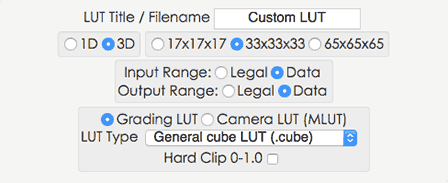
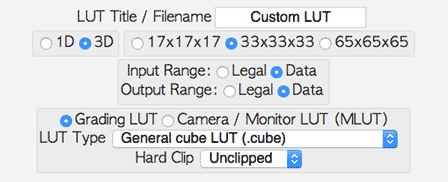
ACEScc bugfix and finer black and white clip controls.

diff --git a/testing/lutlutbox.js b/testing/lutlutbox.js
@@ -116,8 +116,14 @@ LUTLutBox.prototype.io = function() {
 	this.nikonHue.setAttribute('value',0);
 	this.inputs.addInput('nikonHue',this.nikonHue);
 	this.nikonHueLabel = document.createElement('label');
-	this.lutClipCheck = document.createElement('input');
-	this.inputs.addInput('clipCheck',this.lutClipCheck);
+//	this.lutClipCheck = document.createElement('input');
+//	this.inputs.addInput('clipCheck',this.lutClipCheck);
+	this.lutClipSelect = document.createElement('select');
+	this.inputs.addInput('clipSelect',this.lutClipSelect);
+	this.clipLegalBox = document.createElement('div');
+	this.lutClipLegalCheck = document.createElement('input');
+	this.inputs.addInput('clipLegalCheck',this.lutClipLegalCheck);
+	this.buildClipSelect();
 };
 LUTLutBox.prototype.ui = function() {
 	// LUT title / filename
@@ -257,10 +263,17 @@ LUTLutBox.prototype.ui = function() {
 	// 0-1.0 hard clip checkbox
 	this.lutClip = document.createElement('div');
 	this.lutClip.setAttribute('class','emptybox');
-	this.lutClip.appendChild(document.createElement('label').appendChild(document.createTextNode('Hard Clip 0-1.0')));
-	this.lutClipCheck.setAttribute('type','checkbox');
-	this.lutClipCheck.checked = false;
-	this.lutClip.appendChild(this.lutClipCheck);
+	this.lutClip.appendChild(document.createElement('label').appendChild(document.createTextNode('Hard Clip')));
+	this.lutClip.appendChild(this.lutClipSelect);
+	this.clipLegalBox.appendChild(document.createElement('label').appendChild(document.createTextNode('Legal')));
+	this.lutClipLegalCheck.setAttribute('type','checkbox');
+	this.lutClipLegalCheck.checked = false;
+	this.clipLegalBox.appendChild(this.lutClipLegalCheck);
+	this.clipLegalBox.style.display = 'none';
+	this.lutClip.appendChild(this.clipLegalBox);
+//	this.lutClipCheck.setAttribute('type','checkbox');
+//	this.lutClipCheck.checked = false;
+//	this.lutClip.appendChild(this.lutClipCheck);
 	this.lutUsage.appendChild(document.createElement('br'));
 	this.lutUsage.appendChild(this.lutClip);
 };
@@ -269,9 +282,16 @@ LUTLutBox.prototype.events = function() {
 		here.cleanName();
 		lutFile.filename();
 	};}(this);
-	this.lutClipCheck.onchange = function(here){ return function(){
+	this.lutClipSelect.onchange = function(here){ return function(){
+		here.displayCLC();
 		here.messages.gaSetParams();
 	};}(this);
+	this.lutClipLegalCheck.onchange = function(here){ return function(){
+		here.messages.gaSetParams();
+	};}(this);
+//	this.lutClipCheck.onchange = function(here){ return function(){
+//		here.messages.gaSetParams();
+//	};}(this);
 	this.lutOneD.onchange = function(here){ return function(){
 		here.messages.oneOrThree();
 	};}(this);
@@ -285,9 +305,11 @@ LUTLutBox.prototype.events = function() {
 		here.messages.gaSetParams();
 	};}(this);
 	this.lutOutLegal.onchange = function(here){ return function(){
+		here.displayCLC();
 		here.messages.gaSetParams();
 	};}(this);
 	this.lutOutData.onchange = function(here){ return function(){
+		here.displayCLC();
 		here.messages.gaSetParams();
 	};}(this);
 	this.scaleMin.oninput = function(here){ return function(){
@@ -307,6 +329,24 @@ LUTLutBox.prototype.events = function() {
 	};}(this);
 };
 // Set Up Data
+LUTLutBox.prototype.buildClipSelect = function() {
+	var optNone = document.createElement('option');
+	optNone.value = 0;
+	optNone.innerHTML = 'Unclipped';
+	this.lutClipSelect.appendChild(optNone);
+	var optBoth = document.createElement('option');
+	optBoth.value = 1;
+	optBoth.innerHTML = 'Both B&W';
+	this.lutClipSelect.appendChild(optBoth);
+	var optBlack = document.createElement('option');
+	optBlack.value = 2;
+	optBlack.innerHTML = 'Black Only';
+	this.lutClipSelect.appendChild(optBlack);
+	var optWhite = document.createElement('option');
+	optWhite.value = 3;
+	optWhite.innerHTML = 'White Only';
+	this.lutClipSelect.appendChild(optWhite);	
+};
 LUTLutBox.prototype.cleanName = function() {
 	this.lutName.value = this.lutName.value.replace(/[/"/']/gi, '');
 };
@@ -350,7 +390,9 @@ LUTLutBox.prototype.getSettings = function(data) {
 		meshSize: meshSize,
 		legalIn: this.lutInLegal.checked,
 		legalOut: this.lutOutLegal.checked,
-		hardClip: this.lutClipCheck.checked,
+//		hardClip: this.lutClipCheck.checked,
+		clipOption: parseInt(this.lutClipSelect.options[this.lutClipSelect.selectedIndex].value),
+		clipLegal: this.lutClipLegalCheck.checked,
 		grading: this.gradeOpt.checked,
 		gradeOption: this.inputs.gradeSelect.options[this.inputs.gradeSelect.selectedIndex].lastChild.nodeValue.replace(/ *\([^)]*\) */g, ""),
 		mlutOption: this.inputs.mlutSelect.options[this.inputs.mlutSelect.selectedIndex].lastChild.nodeValue.replace(/ *\([^)]*\) */g, ""),
@@ -387,9 +429,26 @@ LUTLutBox.prototype.setSettings = function(settings) {
 		if (typeof data.legalOut === 'boolean') {
 			this.lutOutLegal.checked = data.legalOut;
 			this.lutOutData.checked = !data.legalOut;
+			this.displayCLC();
 		}
 		if (typeof data.hardClip === 'boolean') {
-			this.lutClipCheck.checked = data.hardClip;
+//			this.lutClipCheck.checked = data.hardClip;
+			if (data.hardClip) {
+				this.lutClipSelect.options[1].selected = true;
+			} else {
+				this.lutClipSelect.options[0].selected = true;
+			}
+		}
+		if (typeof data.clipOption === 'number') {
+			for (var j=0; j<4; j++) {
+				if (parseFloat(this.lutClipSelect.options[j].value) === data.clipOption) {
+					this.lutClipSelect.options[j].selected = true;
+					break;
+				}
+			}
+		}
+		if (typeof data.clipLegal === 'boolean') {
+			this.lutClipLegalCheck.checked = data.clipLegal;
 		}
 		if (typeof data.scaleMin === 'number') {
 			this.scaleMin.value = data.scaleMin;
@@ -451,11 +510,16 @@ LUTLutBox.prototype.getInfo = function(info) {
 	} else {
 		info.mlut = false;
 	}
-	if (this.lutClipCheck.checked) {
+	if (this.lutClipSelect.selectedIndex > 0) {
 		info.hardClip = true;
 	} else {
 		info.hardClip = false;
 	}
+//	if (this.lutClipCheck.checked) {
+//		info.hardClip = true;
+//	} else {
+//		info.hardClip = false;
+//	}
 	if (this.lutInLegal.checked) {
 		info.legalIn = true;
 	} else {
@@ -474,4 +538,11 @@ LUTLutBox.prototype.getInfo = function(info) {
 	info.nikonSharp = parseInt(this.nikonShr.value);
 	info.nikonSat = parseInt(this.nikonSat.value);
 	info.nikonHue = parseInt(this.nikonHue.value);
+};
+LUTLutBox.prototype.displayCLC = function() {
+	if (this.lutClipSelect.selectedIndex > 0 && this.lutOutData.checked) {
+		this.clipLegalBox.style.display = 'inline'
+	} else {
+		this.clipLegalBox.style.display = 'none';
+	}
 };

diff --git a/testing/gamma.js b/testing/gamma.js
@@ -21,6 +21,9 @@ function LUTGamma() {
 	this.inL = false;
 	this.outL = true;
 	this.clip = false;
+	this.clipB = false;
+	this.clipW = false;
+	this.clipL = false;
 	
 	this.sIn = false;
 	this.sMin = 0;
@@ -1528,12 +1531,29 @@ LUTGamma.prototype.finalOut = function(buff,cb) {
 		}
 		cMax = this.wClip / 1023;
 	}
-	if (this.clip && cMin<0) {
-		cMin = 0;
+	if (this.clip) {
+		if (this.outL || !this.clipL) {
+			if (this.clipB && cMin<0) {
+				cMin = 0;
+			}
+			if (this.clipW && cMax>1) {
+				cMax = 1;
+			}
+		} else {
+			if (this.clipB && cMin<64/1023) {
+				cMin = 64/1023;
+			}
+			if (this.clipW && cMax>959/1023) {
+				cMax = 959/1023;
+			}
+		}
 	}
-	if (this.clip && cMax>1) {
-		cMax = 1;
-	}
+//	if (this.clip && cMin<0) {
+//		cMin = 0;
+//	}
+//	if (this.clip && cMax>1) {
+//		cMax = 1;
+//	}
 	for (var j=0; j<m; j++) {
 		if (!this.outL) {
 			out[j] = ((out[j]*876)+64)/1023;
@@ -2651,9 +2671,9 @@ LUTGammaACEScc.prototype.linFromL = function(buff) {
 	var m = c.length;
 	for (var j=0; j<m; j++) {
 		if (c[j] < this.low2) {
-			c[j] = (Math.exp(2,(c[j]*17.52)-9.72)-Math.pow(2,-16))*2/0.9;
+			c[j] = (Math.pow(2,(c[j]*17.52)-9.72)-Math.pow(2,-16))*2/0.9;
 		} else if (c[j] < this.mid) {
-			c[j] = Math.exp(2,(c[j]*17.52)-9.72)/0.9;
+			c[j] = Math.pow(2,(c[j]*17.52)-9.72)/0.9;
 		} else {
 			c[j] = 65504/0.9;
 		}
@@ -2676,9 +2696,9 @@ LUTGammaACEScc.prototype.linFromData = function(input) {
 };
 LUTGammaACEScc.prototype.linFromLegal = function(input) {
 	if (input < this.low2) {
-		return (Math.exp(2,(input*17.52)-9.72)-Math.pow(2,-16))*2/0.9;
+		return (Math.pow(2,(input*17.52)-9.72)-Math.pow(2,-16))*2/0.9;
 	} else if (input < this.mid) {
-		return Math.exp(2,(input*17.52)-9.72)/0.9;
+		return Math.pow(2,(input*17.52)-9.72)/0.9;
 	} else {
 		return 65504/0.9;
 	}
@@ -3187,10 +3207,35 @@ LUTGamma.prototype.setParams = function(params) {
 	if (typeof params.pqNits === 'number') {
 		this.gammas[this.PQ].changeLMax(params.pqNits);
 	}
-	if (typeof params.clip === 'boolean') {
-		this.clip = params.clip;
-		out.clip = this.clip;
+	if (typeof params.clipSelect === 'number') {
+		switch(params.clipSelect) {
+			case 0: this.clipB = false;
+					this.clipW = false;
+					this.clip = false;
+					break;
+			case 1: this.clipB = true;
+					this.clipW = true;
+					this.clip = true;
+					break;
+			case 2: this.clipB = true;
+					this.clipW = false;
+					this.clip = true;
+					break;
+			case 3: this.clipB = false;
+					this.clipW = true;
+					this.clip = true;
+					break;
+		}
+		out.clipSelect = params.clipSelect;
 	}
+	if (typeof params.clipLegal === 'boolean') {
+		this.clipL = params.clipLegal;
+		out.clipLegal = this.clipL;
+	}
+//	if (typeof params.clip === 'boolean') {
+//		this.clip = params.clip;
+//		out.clip = this.clip;
+//	}
 	if (typeof params.bClip === 'number') {
 		this.bClip = params.bClip;
 		this.wClip = params.wClip;

diff --git a/testing/lutinfobox.js b/testing/lutinfobox.js
@@ -510,8 +510,14 @@ LUTInfoBox.prototype.createLutInfo = function() {
 	this.addInfo(this.insLutInfo,true,'Camera LUT (MLUT)','This option is for generating LUT suitable for loading into a camera for use as a monitor LUT, or MLUT.');
 	this.addInfo(this.insLutInfo,false,null,'Some LUT formats allow for scaling of the inputs, to allow for inputs which needs to lie outside of 0-1.0. An example would be a linear to log LUT, where the linear range between 0 and 1.0 is only a small portion of a log curve. Scaling means that the input range in this case could be between 0 and 12.0.');
 	this.addInfo(this.insLutInfo,false,null,'Where a LUT format supports scaling, LUTCalc will display minimum and maximum boxes. These default to 0 and 1.0 respectively, and generally do not need to be changed.');
-	this.addInfo(this.insLutInfo,true,'Hard Clip 0-1.0','Many LUT formats allows for output values beyond 0-1. This allows limited dynamic range conversions such as linear or Rec709 to be performed non destructively, ie the overexposed data can still be pulled back into range.');
-	this.addInfo(this.insLutInfo,true,null,'Some software does not handle out of range values correctly, so this option hard clips from 0-1.0. This does mean that data outside of that range is lost.');
+	var fig2 = document.createElement('div');
+	fig2.setAttribute('class','ins-fig');
+	fig2.setAttribute('id','ins-lut-2');
+	this.insLutInfo.appendChild(fig1);
+	this.addInfo(this.insLutInfo,true,'Hard Clip','Many LUT formats permit output values beyond 0-1. This allows limited dynamic range conversions such as linear or Rec709 to be performed non-destructively, ie the overexposed data can still be pulled back into range.');
+	this.addInfo(this.insLutInfo,true,null,'Some software does not handle out of range values correctly, so this drop down allows for clipping of black (0), white (1) or both black and white.');
+	this.addInfo(this.insLutInfo,true,null,"If clipping is applied and the output range for LUTs is set to 'Data', an additional checkbox will appear, 'Legal'. Check this and the clipping will be held to legal range, ie for 10-bit data range black is 64 and white 959 out of 1023.");
+	this.addInfo(this.insLutInfo,true,null,'Use of hard clipping does mean that data outside of the clipped range is lost.');
 	this.insLut.style.display = 'none';
 	this.insLut.appendChild(this.insLutInfo);
 };

diff --git a/testing/lutformats.js b/testing/lutformats.js
@@ -740,13 +740,18 @@ LUTFormats.prototype.updateOptions = function() {
 	// Release hard clip option
 	if (idx !== curIdx || changedType) { // Set to default only if the LUT format has changed
 		if (cur.hard) {
-			this.inputs.clipCheck.disabled = true;
-			this.inputs.clipCheck.checked = true;
+//			this.inputs.clipCheck.disabled = true;
+//			this.inputs.clipCheck.checked = true;
+			this.inputs.clipSelect.disabled = true;
+			this.inputs.clipSelect.options[1].selected = true;
 		} else {
-			this.inputs.clipCheck.disabled = false;
-			this.inputs.clipCheck.checked = false;
+//			this.inputs.clipCheck.disabled = false;
+//			this.inputs.clipCheck.checked = false;
+			this.inputs.clipSelect.disabled = false;
+			this.inputs.clipSelect.options[0].selected = true;
 		}
 	}
+	this.messages.displayCLC();
 	// Line up current and changed indeces
 	this.curIdx = idx;
 };
@@ -805,6 +810,7 @@ LUTFormats.prototype.updateGammaOut = function() {
 			this.inputs.outRange[1].checked = true;
 		}
 	}
+	this.messages.displayCLC();
 	this.lastGamma = parseInt(this.inputs.outGamma.options[this.inputs.outGamma.selectedIndex].value);
 };
 LUTFormats.prototype.resetOptions = function() {
@@ -865,8 +871,11 @@ LUTFormats.prototype.resetOptions = function() {
 	this.inputs.bClip = cur.bClip;
 	this.inputs.wClip = cur.wClip;
 	// Release hard clip option
-	this.inputs.clipCheck.disabled = false;
-	this.inputs.clipCheck.checked = false;
+//	this.inputs.clipCheck.disabled = false;
+//	this.inputs.clipCheck.checked = false;
+	this.inputs.clipSelect.disabled = false;
+	this.inputs.clipSelect.options[0].selected = true;
+	this.messages.displayCLC();
 };
 LUTFormats.prototype.output = function(buff) {
 	var idx;

diff --git a/testing/lutmessage.js b/testing/lutmessage.js
@@ -114,7 +114,9 @@ LUTMessage.prototype.gaSetParams = function() {
 			natISO: parseFloat(this.inputs.nativeISO.innerHTML),
 			camType: parseInt(this.inputs.cameraType.value),
 			stopShift: parseFloat(this.inputs.stopShift.value),
-			clip: this.inputs.clipCheck.checked,
+//			clip: this.inputs.clipCheck.checked,
+			clipSelect: parseInt(this.inputs.clipSelect.options[this.inputs.clipSelect.selectedIndex].value),
+			clipLegal: this.inputs.clipLegalCheck.checked,
 			isTrans: this.inputs.isTrans
 		};
 		if (this.inputs.inRange[0].checked) {
@@ -634,11 +636,11 @@ LUTMessage.prototype.changeFormat = function() {
 	this.gtSetParams();
 };
 LUTMessage.prototype.oneOrThree = function() {
-		this.ui[11].oneOrThree();
-		this.ui[2].oneOrThree();
-		this.ui[3].toggleTweaks();
-		this.gtSetParams();
-		this.gaSetParams();
+	this.ui[11].oneOrThree();
+	this.ui[2].oneOrThree();
+	this.ui[3].toggleTweaks();
+	this.gtSetParams();
+	this.gaSetParams();
 };
 LUTMessage.prototype.showPreview = function() {
 	this.ui[3].toggleTweaks();
@@ -675,4 +677,7 @@ LUTMessage.prototype.isCustomGamma = function() {
 };
 LUTMessage.prototype.isCustomGamut = function() {
 	return this.ui[3].isCustomGamut();
+};
+LUTMessage.prototype.displayCLC = function() {
+	this.ui[4].displayCLC();
 };

diff --git a/testing/info.css b/testing/info.css
@@ -131,6 +131,12 @@
 	width:21em;
 	height:8.58em;
 }
+#ins-lut-2 {
+	background-image: url('pngs/ins-lut-2.png');
+	background-size:21em 3.61em;
+	width:21em;
+	height:3.61em;
+}
 #ins-pre-1 {
 	background-image: url('pngs/ins-pre-1.jpg');
 	background-size:21em 14.61em;

diff --git a/testing/CHANGELOG.md b/testing/CHANGELOG.md
@@ -4,6 +4,8 @@ LUTCalc Changelog
 v2.60
 -----
 * New Feature - Batch-generate sets of exposure compensation LUTs across a user-selectable EI range and step size.
+* Feature Change - White and Black clipping can be set individually, and either to the LUT's output range, or always legal.
+* Bugfix - Fixed broken ACEScc input code. ACEScc as a 'Rec Gamma' option now works as expected.
 
 v2.54
 -----
